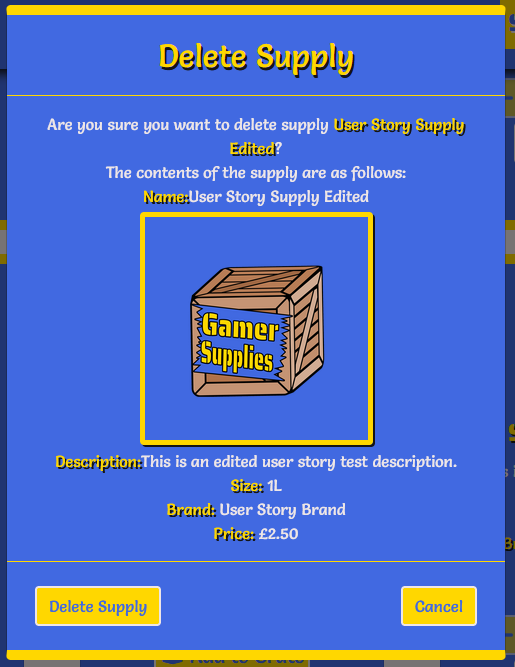
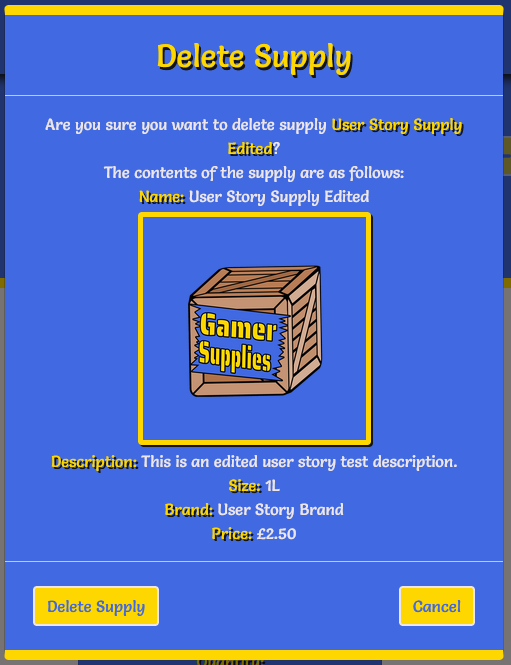
[DOCS] Updated some wording in README.md and TESTING.md

diff --git a/supplies/templates/supplies/supplies.html b/supplies/templates/supplies/supplies.html
@@ -145,7 +145,7 @@
                                                 <div class="modal-body">
                                                         <p class="altFont">Are you sure you want to delete supply <span class="highlight">{{ supply.name }}</span>?</p>
                                                         <p class="altFont">The contents of the supply are as follows:</p>
-                                                        <p class="altFont"><span class="highlight">Name:</span>{{ supply.name }}</p>
+                                                        <p class="altFont"><span class="highlight">Name: </span>{{ supply.name }}</p>
                                                         <div class="w-50 mx-auto">
                                                             {% if supply.image %}
                                                             <img src="{{ supply.image.url }}" class="img-fluid rounded supply-img my-1" alt="{{ supply.name }}">
@@ -153,10 +153,10 @@
                                                             <img src="{{ MEDIA_URL }}noimage.png" class="img-fluid rounded supply-img my-1" alt="{{ supply.name }}">
                                                             {% endif %}
                                                         </div>
-                                                        <p class="altFont"><span class="highlight">Description:</span>{{ supply.description }}</p>
-                                                        <p class="altFont"><span class="highlight">Size:</span> {{ supply.size }}</p>
-                                                        <p class="altFont"><span class="highlight">Brand:</span> {{ supply.brand }}</p>
-                                                        <p class="altFont"><span class="highlight">Price:</span> £{{ supply.price }}</p>
+                                                        <p class="altFont"><span class="highlight">Description: </span>{{ supply.description }}</p>
+                                                        <p class="altFont"><span class="highlight">Size: </span>{{ supply.size }}</p>
+                                                        <p class="altFont"><span class="highlight">Brand: </span>{{ supply.brand }}</p>
+                                                        <p class="altFont"><span class="highlight">Price: </span>£{{ supply.price }}</p>
                                                 </div>
                                                 <div class="modal-footer">
                                                     <div class="row w-100">

diff --git a/TESTING.md b/TESTING.md
@@ -352,7 +352,7 @@ I tested the appearance and responsiveness of the website across 6 different bro
         | ![Order History Screenshot](docs/images/testing/userstories/order-history.png) |
 
 + As a **Registered User**, I want to be able to add a review about my experience on the site.
-    + Included in the homepage is an "Add Review" button that displays underneath the carousel of current reviews.
+    + Included in the homepage is an "Add Review" button which is displayed underneath the current reviews carousel.
     + When clicked, the user will be directed to ```review_add.html``` which contains a form that allows the user to add a review to the site.
     + Upon submitting valid information in the Add Review form (provided in the placeholder and choosing a rating) the review will be added to the data store and displayed in the list.
 
@@ -362,7 +362,7 @@ I tested the appearance and responsiveness of the website across 6 different bro
         | Add Review | ![Add Review Screenshot](docs/images/testing/userstories/add-review.png) |
         | Add Review Success | ![Add Review Success Screenshot](docs/images/testing/userstories/add-review-success.png) |
 
-    + Upon clicking the cancel button the data will be untouched, the form will close and the user returned to the page they were on.
+    + Upon clicking the cancel button the data will be untouched, the form will close and the user returned to the home page.
 
 [Contents](#contents)
 
@@ -377,7 +377,7 @@ I tested the appearance and responsiveness of the website across 6 different bro
 
     + Upon clicking this button the superuser will be redirected to the Add Supply form shown below.
     + Upon submitting valid information in the Add Supply form (provided in the placeholder for each field) the supply will be added to the data store and displayed in the list.
-        + A supply's image is not required and for testing purposes I have included this to display how it handles having no image.
+        + A supply image is not required and for testing purposes. I have included this to display how it handles having no image.
 
             | _Adding a Supply_ | Screenshot |
             |:-----------------:|:----------:|
@@ -385,7 +385,7 @@ I tested the appearance and responsiveness of the website across 6 different bro
             | Add Supply | ![Add Supply Screenshot](docs/images/testing/userstories/add-supply.png) |
             | Add Supply Success | ![Add Supply Success Screenshot](docs/images/testing/userstories/add-supply-success.png) |
 
-    + Upon clicking the cancel button the data will be untouched, the form will close and the user returned to the page they were on.
+    + Upon clicking the cancel button the data will be untouched, the form will close and the user returned to the supplies page.
 
 + As a **Site Owner/Superuser**, I want to be able to edit and delete supplies.
     + Included in ```supplies.html``` within each supply card I have added edit and delete buttons (denoted by relevant icons) under the 'Add to Crate' button which is only accessible by a superuser.
@@ -395,7 +395,7 @@ I tested the appearance and responsiveness of the website across 6 different bro
         | ![Edit/Delete Supply Button Screenshot](docs/images/testing/userstories/edit-delete.png) |
 
     + Upon clicking the edit button the superuser will be redirected to the Edit Supply form shown below.
-        + Upon submitting valid information in the Edit Supply form (provided in the placeholder for each field if the user removes the prefilled info) the supply will be edit in the data store and displayed in the list accordingly.
+        + Upon submitting valid information in the Edit Supply form (provided in the placeholder for each field if the user removes the prefilled info) the supply will be edited in the data store and displayed in the list accordingly.
             + In addition to altering the information, I have added an image to display how it handles adding images.
 
                 | _Edit a Supply_ | Screenshot |
@@ -404,7 +404,7 @@ I tested the appearance and responsiveness of the website across 6 different bro
                 | Edit Supply | ![Edit Supply Screenshot](docs/images/testing/userstories/edit-supply.png) |
                 | Edit Supply Success | ![Edit Supply Success Screenshot](docs/images/testing/userstories/edit-supply-success.png) |
 
-        + Upon clicking the cancel button the data will be untouched, the form will close and the user returned to the page they were on.
+        + Upon clicking the cancel button the data will be untouched, the form will close and the user returned to the supplies page.
 
 
     + Upon clicking the delete button the user will see a delete confirmation modal as shown below.
@@ -419,10 +419,10 @@ I tested the appearance and responsiveness of the website across 6 different bro
             |:--------------:|
             | ![Delete Supply Success Screenshot](docs/images/testing/userstories/delete-supply-success.png) |
 
-        + Upon clicking the cancel button the data will be untouched, the modal will close and the user returned to the page they were on.
+        + Upon clicking the cancel button the data will be untouched and the modal will close
 
 + As a **Site Owner/Superuser**, I want to be able to manage and delete reviews.
-    + I have included ```reviews_manage.html``` which allows a superuser to view all current reviews posted to the site and delete as necessary.
+    + I have included ```reviews_manage.html``` which allows a superuser to view all current reviews posted to the site and an option to delete them as necessary.
 
         | _Manage Reviews Page_ |
         |:---------------------:|
@@ -441,10 +441,10 @@ I tested the appearance and responsiveness of the website across 6 different bro
             |:--------------:|
             | ![Delete Review Success Screenshot](docs/images/testing/userstories/delete-review-success.png) |
 
-        + Upon clicking the cancel button the data will be untouched, the modal will close and the user returned to the page they were on.
+        + Upon clicking the cancel button the data will be untouched and the modal will close.
 
-+ As a **Site Owner/Superuser**, I want to be able to view and manage all the coupon codes.
-    + I have included a page (```coupons_manage.html```) for superusers to manage all the existing coupon codes and add new ones.
++ As a **Site Owner/Superuser**, I want to be able to view and manage all coupon codes.
+    + I have included a page (```coupons_manage.html```) for superusers to manage all the existing coupon codes and the option to add new ones.
 
         | _Manage Coupons Page_ |
         |:---------------------:|
@@ -470,7 +470,7 @@ I tested the appearance and responsiveness of the website across 6 different bro
             |:--------------:|
             | ![Delete Coupon Success Screenshot](docs/images/testing/userstories/delete-coupon-success.png) |
 
-        + Upon clicking the cancel button the data will be untouched, the modal will close and the user returned to the page they were on.
+        + Upon clicking the cancel button the data will be untouched and the modal will close.
 
 + As a **Site Owner/Superuser**, I want to be able to access the admin section of the site to view orders made, the items they contain and the delivery information.
     + Included in the main navigation bar is a dropdown that contains the admin features of the site.

diff --git a/README.md b/README.md
@@ -398,10 +398,15 @@ Review Model (Custom model #2 for Distinction performance)
 ## Included in **404/500.html** is:
 
 **Error Content**:
-+ Contains a section explaining to the user that the page they tried to access does not exist.
++ A section explaining to the user that the page they tried to access does not exist.
 + A button which allows the user to return to the homepage.
 
 ## These features are included throughout the site and thus do not fall into a specific page
+
+**Fully Responsive Design**:
++ In the development of this project I have utilized a mobile first design approach to ensure all content is displayed on the smallest screen sizes.
++ This is scaled up to medium and large screens through the use of Bootstrap custom classes (namely the grid system).
++ This has allowed me to customize the whole site to be responsive across all screen sizes that I have tested (see [TESTING.md](TESTING.md)).
 
 **Bootstrap Toasts**:
 + Bootstrap toasts are prebuilt notifications that are customized to suit the theme of the site, the action that has occured and display relevant messages based on this.
@@ -435,10 +440,10 @@ Review Model (Custom model #2 for Distinction performance)
         + Contains a delete button on each coupon that activates the delete coupon functionality when pressed.
 
 **Delete conformation modals**
-+ When attempting to delete data in the datastore it will initiate a delete confirmation modal.
++ When attempting to delete data in the data store it initiates a delete confirmation modal.
     + This provides the user with important information about the selected item (Supply, Review and Coupon) to prevent accidental deletions.
-    + This functionality is tied to the delete buttons (denoted by relevant icon) in the associated pages (Supplies, Home/Manage Reviews and Manage Coupons)
-    + Pictures of these modals can be found within superuser story testing [here](TESTING.MD).
+    + This functionality is tied to the delete buttons (denoted by relevant icon) in the associated pages (Supplies, Home/Manage Reviews and Manage Coupons).
+    + Pictures of these modals can be found within superuser story testing [here](TESTING.md).
 
 ### Features to be added
 
